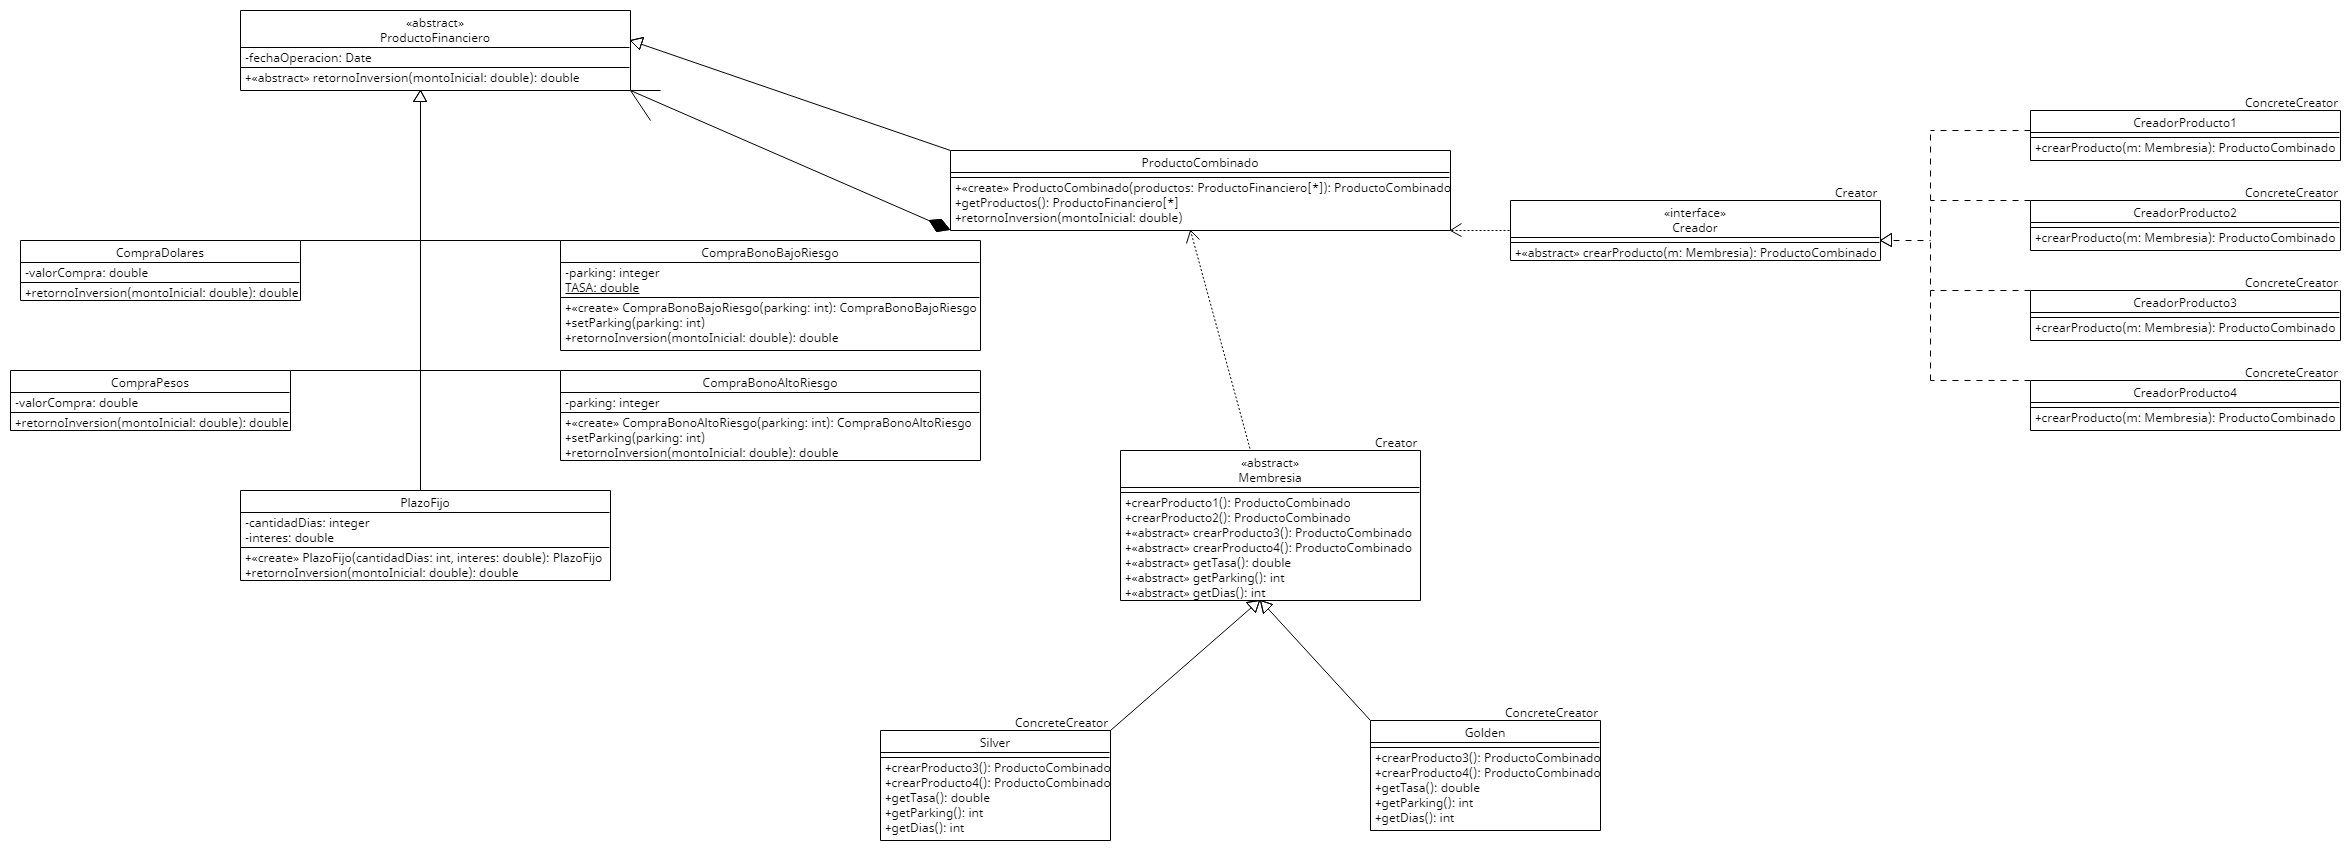
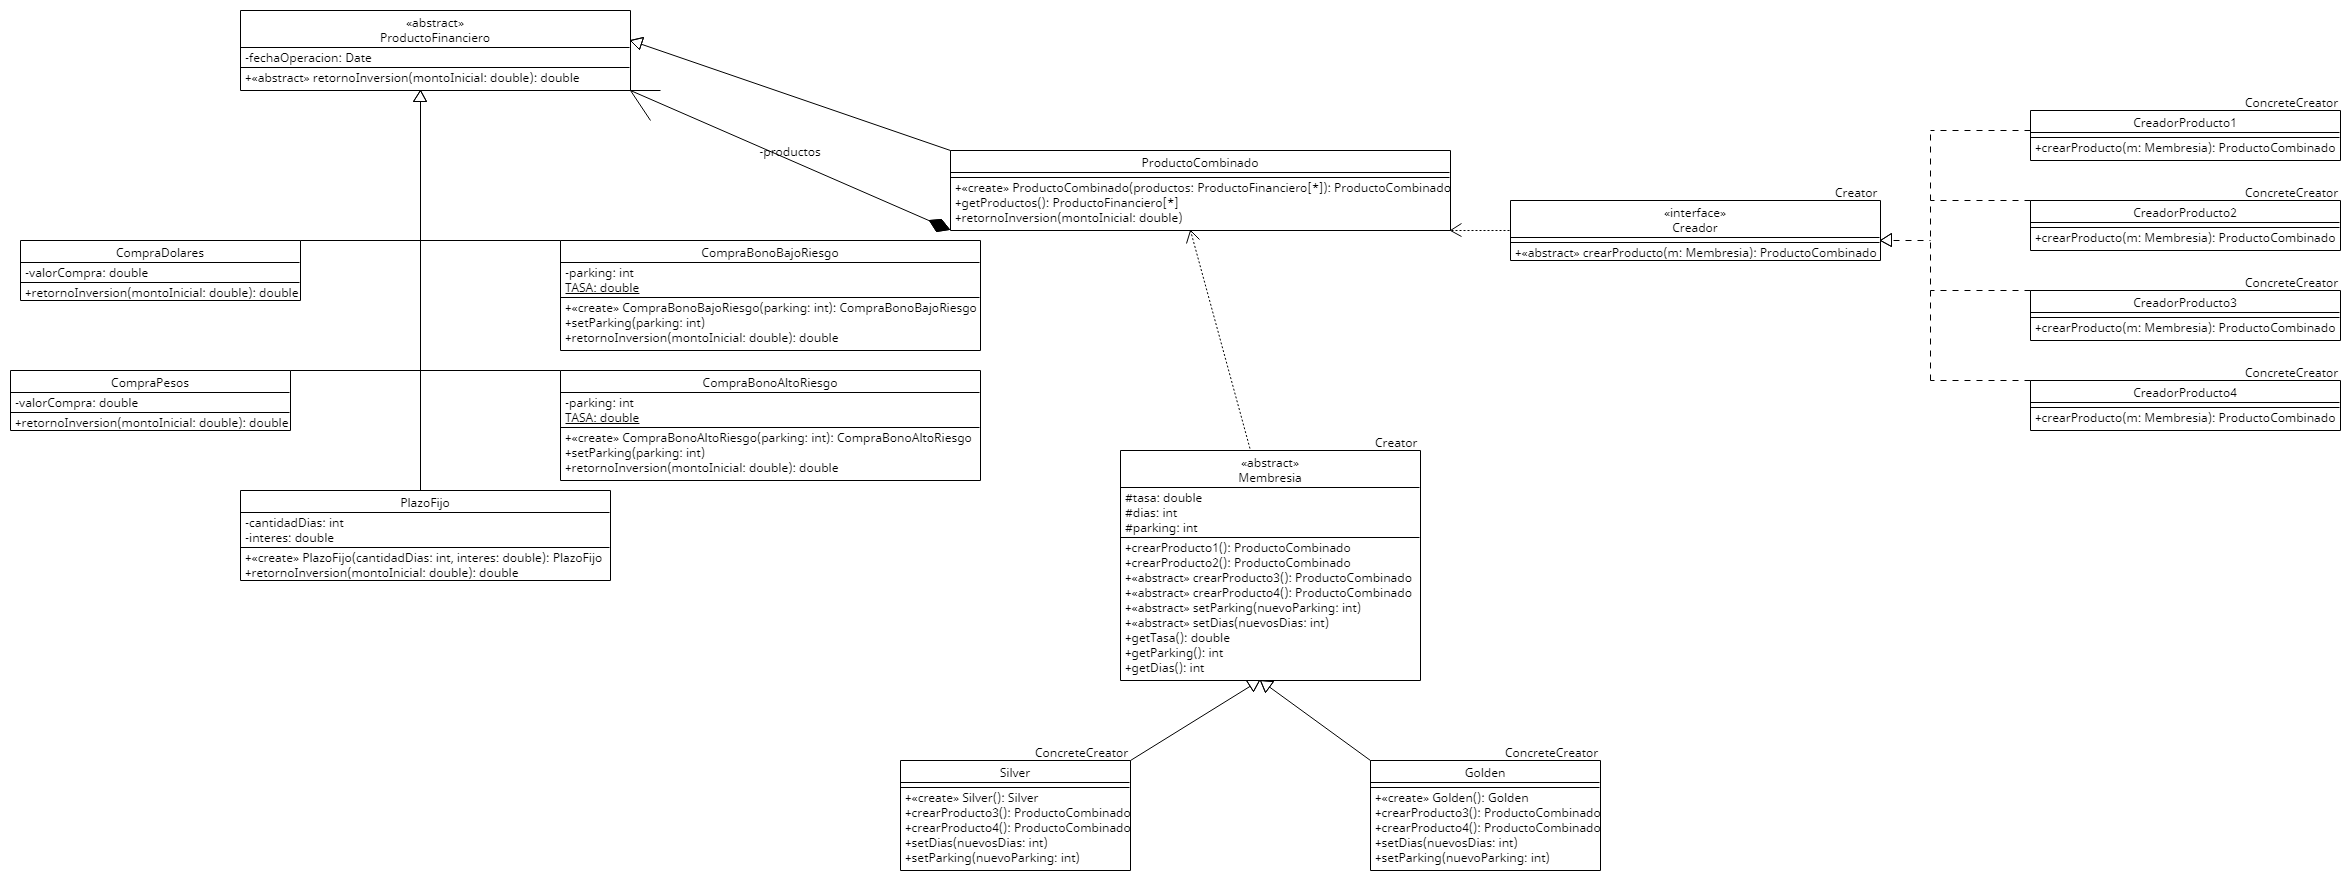
Correccion ejercicio 17

diff --git a/Patrones/Ejercicio 17/Silver.java b/Patrones/Ejercicio 17/Silver.java
@@ -1,28 +1,33 @@
 package ejercicio17;
 
 public class Silver extends Membresia {
-	private static double TASA = 0.05;
-	private static int DIAS = 35;
-	private static int PARKING = 72;
+
+	public Silver() {
+		this.tasa = 0.05;
+		this.dias = 35;
+		this.parking = 72;
+	}
 
 	public ProductoCombinado crearProducto3() {
-		throw new RuntimeException("Este tipo de membresía no incluye este producto");
+		throw new RuntimeException("Este tipo de membresía no incluye este producto.");
 	}
 
 	public ProductoCombinado crearProducto4() {
-		throw new RuntimeException("Este tipo de membresía no incluye este producto");
+		throw new RuntimeException("Este tipo de membresía no incluye este producto.");
 	}
 
-	public double getTasa() {
-		return TASA;
+	public void setDias(int nuevosDias) {
+		if (nuevosDias >= 35)
+			this.dias = nuevosDias;
+		else
+			throw new RuntimeException("El valor debe ser de mínimo 35 días.");
 	}
 
-	public int getParking() {
-		return PARKING;
-	}
-
-	public int getDias() {
-		return DIAS;
+	public void setParking(int nuevoParking) {
+		if (nuevoParking >= 72)
+			this.parking = nuevoParking;
+		else
+			throw new RuntimeException("El valor debe ser de mínimo 72 horas.");
 	}
 
 }

diff --git a/Patrones/Ejercicio 17/ProductoFinancieroTest.java b/Patrones/Ejercicio 17/ProductoFinancieroTest.java
@@ -45,9 +45,15 @@ public class ProductoFinancieroTest {
 		assertEquals(3, this.golden.crearProducto4().getProductos().size());
 		assertEquals(3, this.golden.crearProducto3().getProductos().size());
 		Exception exc = assertThrows(RuntimeException.class, () -> this.silver.crearProducto3());
-		assertEquals("Este tipo de membresía no incluye este producto", exc.getMessage());
+		assertEquals("Este tipo de membresía no incluye este producto.", exc.getMessage());
+		exc = assertThrows(RuntimeException.class, () -> this.silver.setDias(10));
+		assertEquals("El valor debe ser de mínimo 35 días.", exc.getMessage());
+		exc = assertThrows(RuntimeException.class, () -> this.golden.setParking(10));
+		assertEquals("El valor debe ser de mínimo 24 horas.", exc.getMessage());
+		this.silver.setDias(40);
+		assertEquals(432964.28, this.silver.crearProducto1().retornoInversion(350));
 	}
-	
+
 	@Test
 	public void testRetornoInversionCombinado() {
 		assertEquals(308879.2, this.silver.crearProducto1().retornoInversion(250));

diff --git a/Patrones/Ejercicio 17/Golden.java b/Patrones/Ejercicio 17/Golden.java
@@ -1,9 +1,12 @@
 package ejercicio17;
 
 public class Golden extends Membresia {
-	private static double TASA = 0.06;
-	private static int DIAS = 30;
-	private static int PARKING = 24;
+
+	public Golden() {
+		this.tasa = 0.06;
+		this.dias = 30;
+		this.parking = 24;
+	}
 
 	public ProductoCombinado crearProducto3() {
 		return new CreadorProducto3().crearProducto(this);
@@ -13,16 +16,18 @@ public class Golden extends Membresia {
 		return new CreadorProducto4().crearProducto(this);
 	}
 
-	public double getTasa() {
-		return TASA;
+	public void setDias(int nuevosDias) {
+		if (nuevosDias >= 30)
+			this.dias = nuevosDias;
+		else
+			throw new RuntimeException("El valor debe ser de mínimo 30 días.");
 	}
 
-	public int getParking() {
-		return PARKING;
-	}
-
-	public int getDias() {
-		return DIAS;
+	public void setParking(int nuevoParking) {
+		if (nuevoParking >= 24)
+			this.parking = nuevoParking;
+		else
+			throw new RuntimeException("El valor debe ser de mínimo 24 horas.");
 	}
 
 }

diff --git a/Patrones/Ejercicio 17/Membresia.java b/Patrones/Ejercicio 17/Membresia.java
@@ -1,9 +1,13 @@
 package ejercicio17;
 
 public abstract class Membresia {
+	protected double tasa;
+	protected int dias;
+	protected int parking;
 
-	// Silver solo tiene acceso a productos 1 y 2. Golden tiene acceso a 1, 2, 3 y 4.
-	
+	// Silver solo tiene acceso a productos 1 y 2. Golden tiene acceso a 1, 2, 3 y
+	// 4.
+
 	public ProductoCombinado crearProducto1() {
 		return new CreadorProducto1().crearProducto(this);
 	}
@@ -15,10 +19,20 @@ public abstract class Membresia {
 	public abstract ProductoCombinado crearProducto3();
 
 	public abstract ProductoCombinado crearProducto4();
+	
+	public abstract void setDias(int nuevosDias);
+	
+	public abstract void setParking(int nuevoParking);
 
-	public abstract double getTasa();
+	public double getTasa() {
+		return this.tasa;
+	}
 
-	public abstract int getParking();
+	public int getParking() {
+		return this.parking;
+	}
 
-	public abstract int getDias();
+	public int getDias() {
+		return this.dias;
+	}
 }
